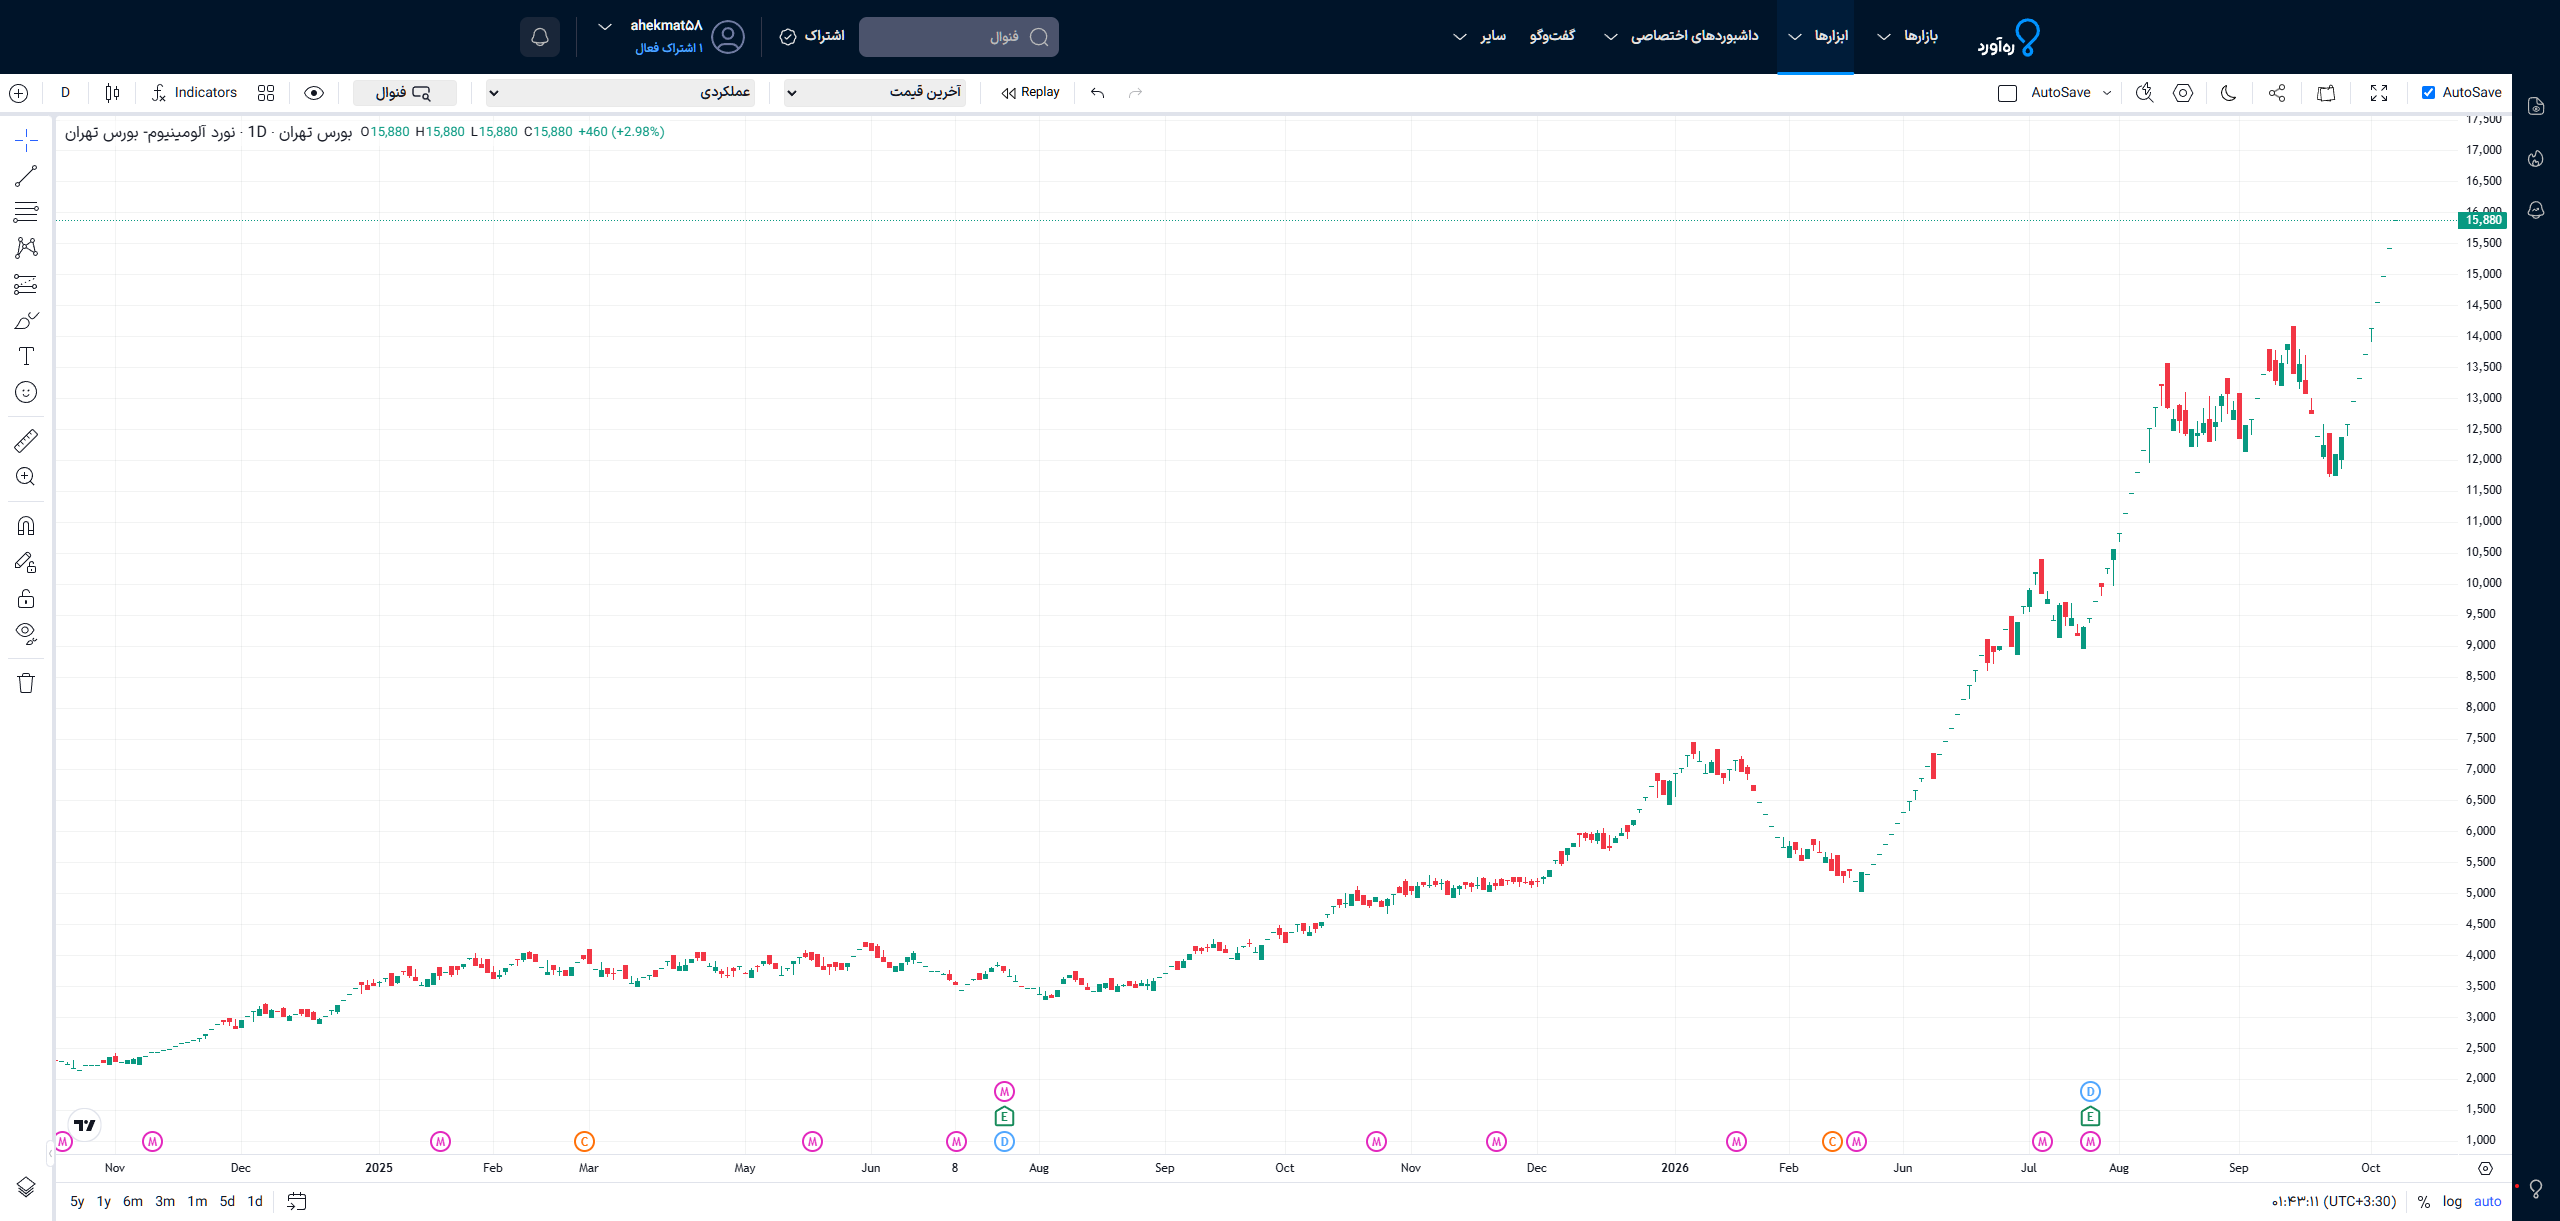
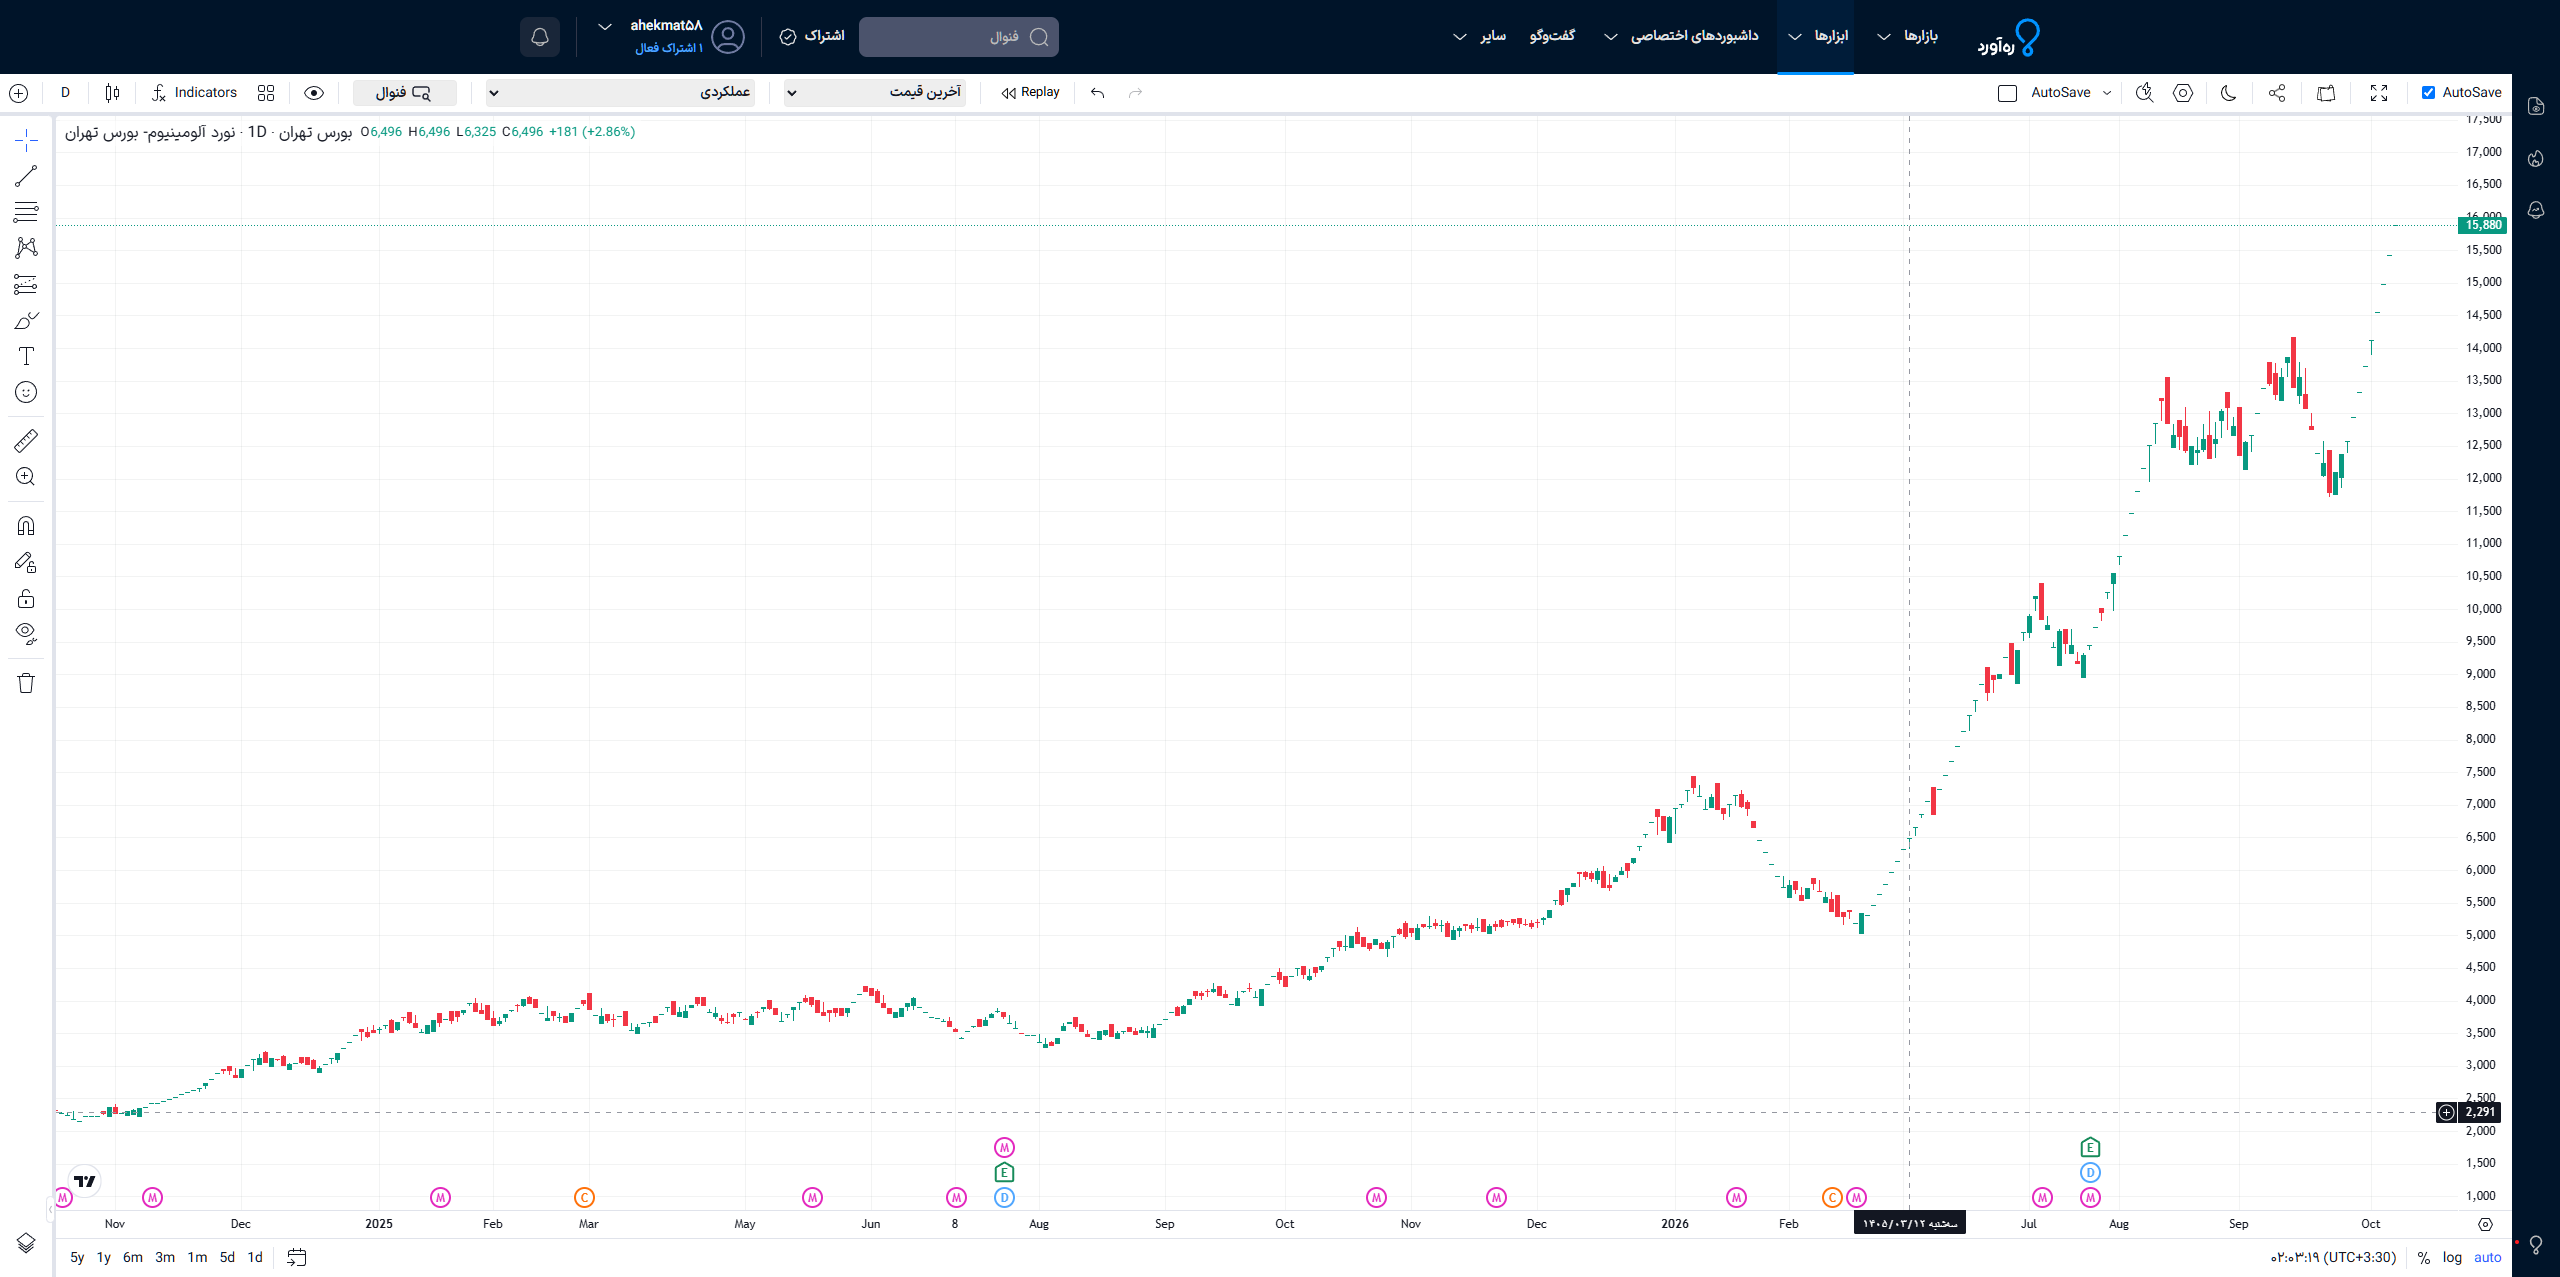
align trend measurement tools with production adjusted FTS path
trend_lab.load_candles and trend_compare read price_history raw, so a
capital-increase cliff (e.g. maroon 53550->18950) was scored as a real crash
and reported "down" while production reports "up". Add load_candles_fts that
reuses CH._fts_analysis_series (functional-adjusted, as_of-sliced) and point
both tools at it. Also record the Rahavard human reference (12 D/W pairs,
confirmed by code, amali + log) and correct the earlier mis-attribution.

diff --git a/tools/trend_lab.py b/tools/trend_lab.py
@@ -41,7 +41,12 @@ WEIGHTS = {"structure": 1.3, "slope": 1.2, "ma": 1.0, "eff": 0.9}
 
 
 def load_candles(cur, symbol, as_of):
-    """OHLCV صعودی تا as_of (برشِ واقعیِ تاریخی؛ بینشتِ آینده)."""
+    """OHLCV صعودی تا as_of (برشِ واقعیِ تاریخی؛ بینشتِ آینده).
+
+    هشدار: این مسیر `price_history` خام را میدهد و تعدیلِ عملکردی را اعمال
+    نمیکند؛ برایِ سنجشِ هممبنا باِ production از `load_candles_fts` استفاده کن.
+    این تابع فقط برایِ مواردِ آفلاین/فرضیِ نگهدارنده نگه داشته شده است.
+    """
     cur.execute("SELECT date,open,high,low,close FROM price_history "
                 "WHERE symbol=? AND date<=? ORDER BY date", (symbol, as_of))
     out = []
@@ -52,6 +57,24 @@ def load_candles(cur, symbol, as_of):
         except (TypeError, ValueError):
             continue
     return out
+
+
+def load_candles_fts(symbol, as_of=None):
+    """سریِ کندلِ تعدیلشده از همان مسیرِ production (`_fts_analysis_series`).
+
+    سنجشِ روند باید رویِ همان دادهای باشد کهِ production میبیند (تعدیلِ عملکردی،
+    لنگرِ CDN/بانکِ محلی). بیاین، ابزارِ خامِ `price_history` شکافِ افزایشِ سرمایه
+    را ریزشِ واقعی میشمارد و مارون را «نزولی» میداد در حالی کهِ production «صعودی»
+    میگوید. برشِ as_of باِ همان `_candles_upto_asof`ِ موتور انجام میشود.
+    بازگشت: (candles, basis)؛ candles خالی اگر هیچ منبعی نبود.
+    """
+    try:
+        series, basis = CH._fts_analysis_series(symbol)
+    except Exception:
+        return [], "unavailable"
+    if as_of:
+        series = CH._candles_upto_asof(series, as_of)
+    return series, basis
 
 
 def atr_pct(candles, n=14):
@@ -211,7 +234,7 @@ def main():
         step = max(1, len(counts) // 40)
         picked = [counts[i][0] for i in range(0, len(counts), step)][: 48]
         for sym in picked:
-            latest = load_candles(cur, sym, "9999-12-31")
+            latest, _b = load_candles_fts(sym, None)
             if not latest:
                 continue
             last = latest[-1]["time"]
@@ -229,7 +252,7 @@ def main():
 
     rows = []
     for sym, as_of in pairs:
-        daily = load_candles(cur, sym, as_of)
+        daily, _b = load_candles_fts(sym, as_of)
         weekly = CH._fts_resample(daily, "W") if len(daily) >= 4 else []
         rows.append(classify_one(daily, "D", as_of, sym))
         rows.append(classify_one(weekly, "W", as_of, sym))

diff --git a/tools/trend_compare.py b/tools/trend_compare.py
@@ -80,7 +80,7 @@ def main():
 
     rows = []
     for sym in candidates:
-        daily = tl.load_candles(cur, sym, a.as_of)
+        daily, basis = tl.load_candles_fts(sym, a.as_of)
         if not daily:
             continue
         weekly = CH._fts_resample(daily, "W") if len(daily) >= 4 else []
@@ -94,7 +94,7 @@ def main():
         nd = "range" if newD == "neutral" else newD
         nw = "range" if newW == "neutral" else newW
         rows.append({
-            "symbol": sym, "as_of": a.as_of, "basis": "raw-db-close(تعدیل=ذخیرهشده)",
+            "symbol": sym, "as_of": a.as_of, "basis": f"fts-{basis}",
             "bars_d": len(daily), "bars_w": len(weekly),
             "old_daily": oD, "old_weekly": oW,
             "new_daily": nd, "new_weekly": nw,
